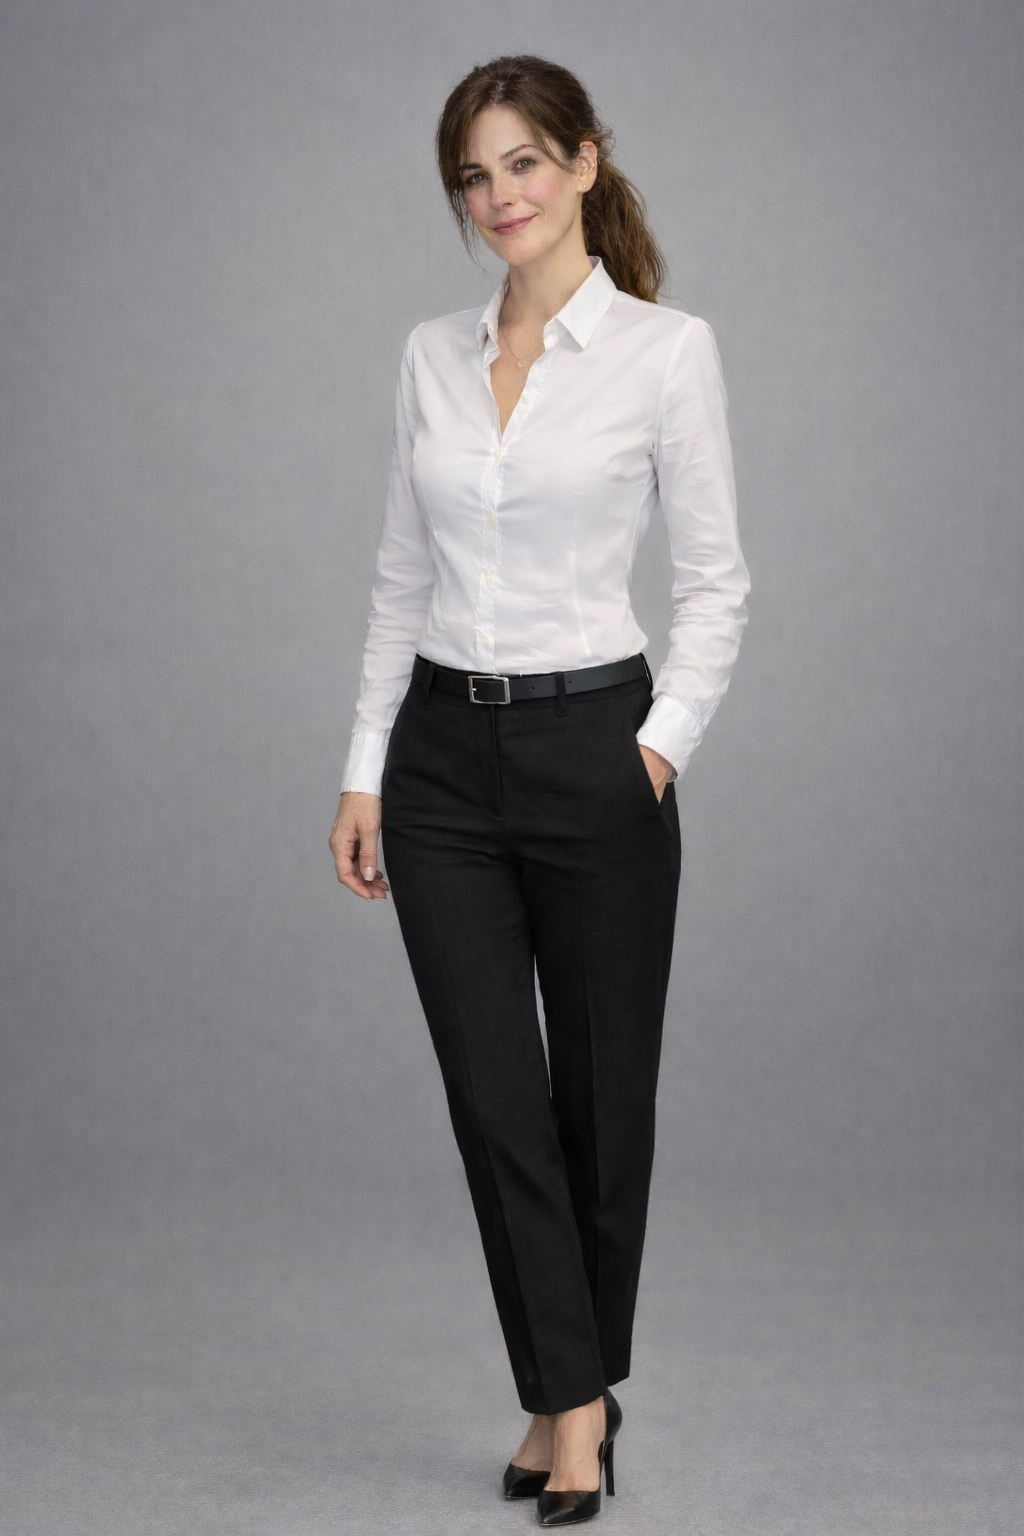
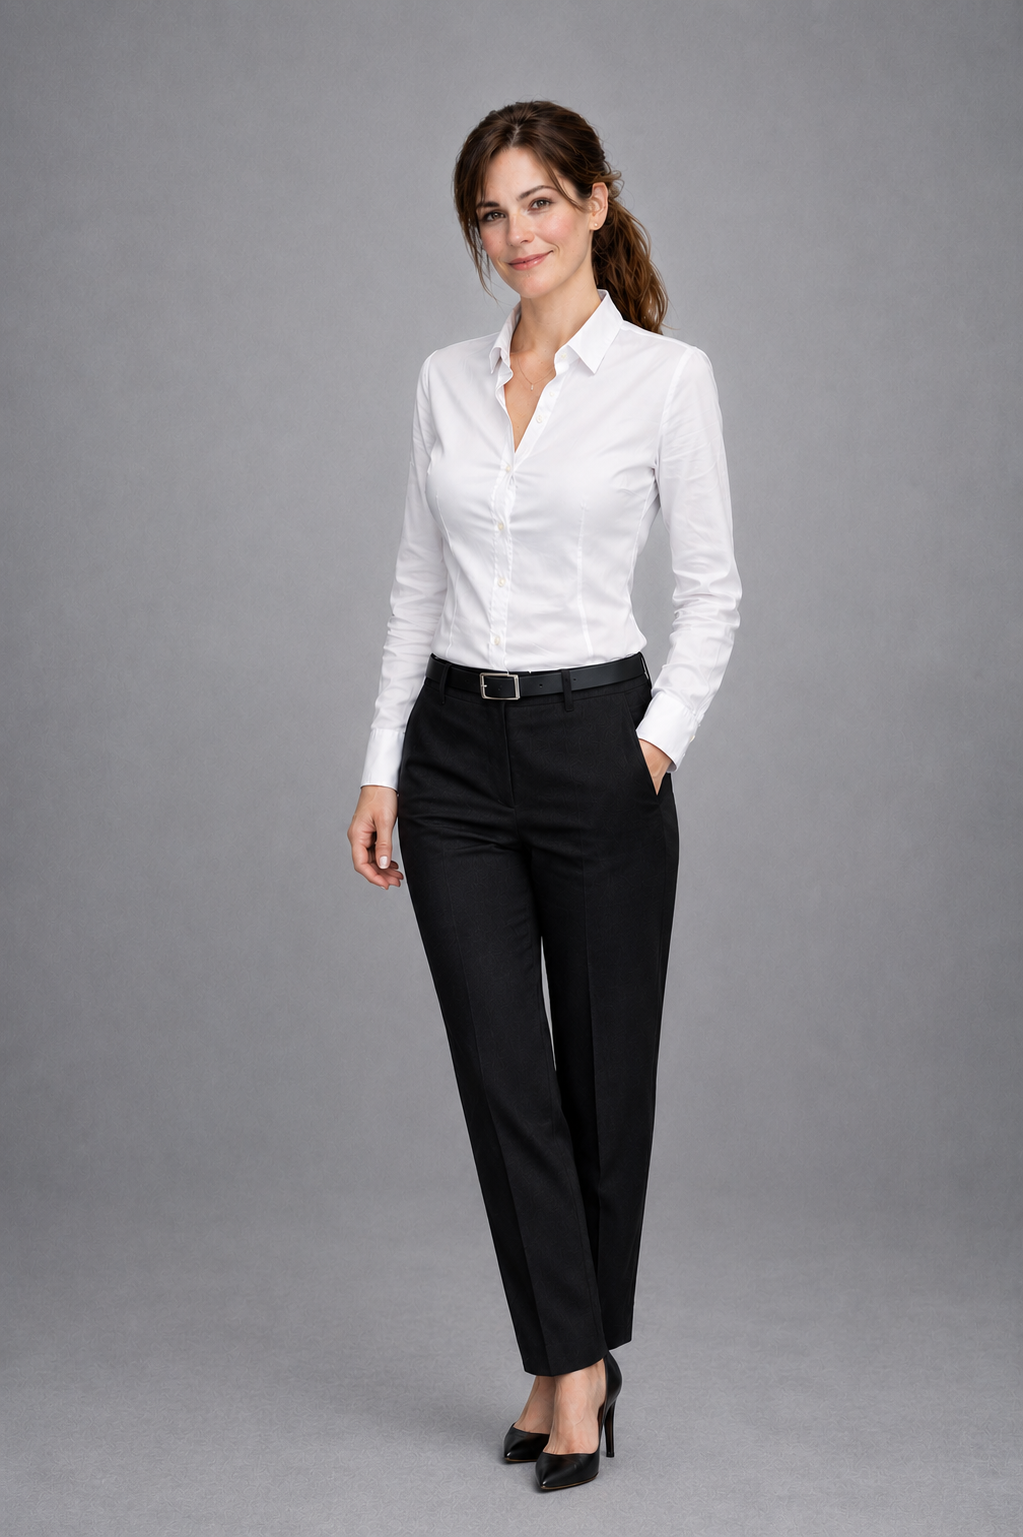
v1.45: harden history checkpoints and streamline container releases
History checkpoint robustness and coverage

- harden history checkpoint handling to keep web history state transitions stable and cover the behavior with tests

Container build and publishing flow

- generate the OpenAPI client during Docker builds so container images include current generated assets
- simplify the publish-container workflow around the main-branch release path

Packaged assets

- refresh the bundled Vika NPC image

Validation

- verify requirements.txt against requirements.in with pip-compile requirements.in and confirm no diff
- keep Python tests, TypeScript checks, and the production frontend build green for the release

diff --git a/engine/services/history_service.py b/engine/services/history_service.py
@@ -23,7 +23,6 @@ class HistoryService:
 
     def __init__(self) -> None:
         self._git_dir = storage.npc.base_runtime
-        self._ensure_git_repo()
 
     @staticmethod
     def _format_process_output(output: str | bytes | None) -> str:
@@ -37,39 +36,46 @@ class HistoryService:
     def _parse_git_datetime(value: str) -> datetime:
         return datetime.strptime(value, "%Y-%m-%d %H:%M:%S %z")
 
+    def _run_git(self, *args: str, text: bool = True) -> subprocess.CompletedProcess[str]:
+        try:
+            return subprocess.run(
+                ["git", *args],
+                cwd=str(self._git_dir),
+                check=True,
+                capture_output=True,
+                timeout=10,
+                text=text,
+            )
+        except subprocess.CalledProcessError as e:
+            stderr = self._format_process_output(e.stderr)
+            stdout = self._format_process_output(e.stdout)
+            combined_output = "\n".join(part for part in [stderr, stdout] if part)
+            raise ValueError(combined_output or str(e)) from e
+        except OSError as e:
+            raise ValueError(str(e)) from e
+
     def _ensure_git_repo(self) -> None:
         """Initialisiert das Git-Repository, falls nicht vorhanden."""
-        self._git_dir.mkdir(parents=True, exist_ok=True)
+        try:
+            self._git_dir.mkdir(parents=True, exist_ok=True)
+        except OSError as e:
+            raise ValueError(f"Checkpoint-Speicher ist nicht verfügbar: {e}") from e
 
         if (self._git_dir / ".git").exists():
             return
 
         try:
-            subprocess.run(
-                ["git", "init"],
-                cwd=str(self._git_dir),
-                check=True,
-                capture_output=True,
-                timeout=10,
-            )
+            self._run_git("init")
             logger.info(f"Git-Repository in {self._git_dir} initialisiert")
-        except subprocess.CalledProcessError as e:
-            error_detail = self._format_process_output(e.stderr)
-            raise ValueError(f"Git-Initialisierung fehlgeschlagen: {error_detail}") from e
+        except ValueError as e:
+            raise ValueError(f"Git-Initialisierung fehlgeschlagen: {e}") from e
 
     def _has_changes(self) -> bool:
         """Prüft, ob es uncommitted changes gibt."""
         try:
-            result = subprocess.run(
-                ["git", "status", "--porcelain"],
-                cwd=str(self._git_dir),
-                check=True,
-                capture_output=True,
-                timeout=10,
-                text=True,
-            )
+            result = self._run_git("status", "--porcelain")
             return bool(result.stdout.strip())
-        except subprocess.CalledProcessError:
+        except ValueError:
             return False
 
     def _generate_checkpoint_summary(self) -> str:
@@ -94,21 +100,8 @@ class HistoryService:
     def _git_add_and_commit(self, message: str) -> str:
         """Staged alle Änderungen und erstellt einen Commit."""
         try:
-            subprocess.run(
-                ["git", "add", "-A"],
-                cwd=str(self._git_dir),
-                check=True,
-                capture_output=True,
-                timeout=10,
-            )
-            result = subprocess.run(
-                ["git", "commit", "-m", message],
-                cwd=str(self._git_dir),
-                check=True,
-                capture_output=True,
-                timeout=10,
-                text=True,
-            )
+            self._run_git("add", "-A")
+            result = self._run_git("commit", "-m", message)
             output = result.stdout
             if "[" in output and "]" in output:
                 commit_info = output.split("[")[1].split("]")[0]
@@ -118,18 +111,16 @@ class HistoryService:
 
             logger.info(f"Checkpoint erstellt: {message} ({commit_hash})")
             return commit_hash
-        except subprocess.CalledProcessError as e:
-            stderr = self._format_process_output(e.stderr)
-            stdout = self._format_process_output(e.stdout)
-            combined_output = "\n".join(part for part in [stderr, stdout] if part)
-
-            if "nothing to commit" in combined_output.lower():
+        except ValueError as e:
+            if "nothing to commit" in str(e).lower():
                 raise ValueError("Keine Änderungen vorhanden, Checkpoint nicht erstellt") from e
 
-            raise ValueError(f"Commit fehlgeschlagen: {combined_output}") from e
+            raise ValueError(f"Commit fehlgeschlagen: {e}") from e
 
     def save_checkpoint(self, label: str | None = None) -> str:
         """Speichert einen Checkpoint für den aktiven Spielstand."""
+        self._ensure_git_repo()
+
         if not self._has_changes():
             raise ValueError("Keine Änderungen vorhanden, Checkpoint nicht erstellt")
 
@@ -139,16 +130,15 @@ class HistoryService:
     def list_checkpoints(self) -> list[Checkpoint]:
         """Listet alle verfügbaren Checkpoints auf."""
         try:
-            result = subprocess.run(
-                ["git", "log", "--pretty=format:%H%n%ai%n%s"],
-                cwd=str(self._git_dir),
-                check=True,
-                capture_output=True,
-                timeout=10,
-                text=True,
-            )
-        except subprocess.CalledProcessError as e:
-            logger.warning(f"Git-Log abfrage fehlgeschlagen: {e.stderr}")
+            self._ensure_git_repo()
+        except ValueError as e:
+            logger.warning(f"Checkpoint-Liste nicht verfügbar: {e}")
+            return []
+
+        try:
+            result = self._run_git("log", "--pretty=format:%H%n%ai%n%s")
+        except ValueError as e:
+            logger.warning(f"Git-Log abfrage fehlgeschlagen: {e}")
             return []
 
         if not result.stdout.strip():
@@ -173,6 +163,8 @@ class HistoryService:
 
     def restore_checkpoint(self, commit_hash: str) -> None:
         """Stellt einen älteren Spielstand wieder her."""
+        self._ensure_git_repo()
+
         if self._has_changes():
             logger.info("Änderungen vorhanden, erstelle Auto-Backup...")
             try:
@@ -181,29 +173,16 @@ class HistoryService:
                 logger.warning(f"Auto-Backup fehlgeschlagen: {e}")
 
         try:
-            result = subprocess.run(
-                ["git", "log", "-1", "--pretty=format:%ai%n%s", commit_hash],
-                cwd=str(self._git_dir),
-                check=True,
-                capture_output=True,
-                timeout=10,
-                text=True,
-            )
+            result = self._run_git("log", "-1", "--pretty=format:%ai%n%s", commit_hash)
             lines = result.stdout.strip().split("\n")
             commit_datetime = lines[0] if lines else ""
             commit_orig_message = lines[1] if len(lines) > 1 else ""
-        except subprocess.CalledProcessError:
+        except ValueError:
             commit_datetime = "unknown"
             commit_orig_message = "unknown"
 
         try:
-            subprocess.run(
-                ["git", "checkout", commit_hash, "--", "."],
-                cwd=str(self._git_dir),
-                check=True,
-                capture_output=True,
-                timeout=10,
-            )
+            self._run_git("checkout", commit_hash, "--", ".")
 
             if not self._has_changes():
                 logger.info(f"Checkout von {commit_hash} ohne Änderungen – kein Revert-Commit nötig")
@@ -211,6 +190,5 @@ class HistoryService:
 
             self._git_add_and_commit(f"[revert to] {commit_datetime} - {commit_orig_message}")
             logger.info(f"Checkpoint wiederhergestellt: {commit_hash}")
-        except subprocess.CalledProcessError as e:
-            error_detail = self._format_process_output(e.stderr)
-            raise ValueError(f"Checkpoint-Wiederherstellung fehlgeschlagen: {error_detail}") from e
+        except ValueError as e:
+            raise ValueError(f"Checkpoint-Wiederherstellung fehlgeschlagen: {e}") from e

diff --git a/tests/test_web_app.py b/tests/test_web_app.py
@@ -328,6 +328,23 @@ def test_api_responses_are_not_cached(tmp_path, monkeypatch):
     assert response.headers["expires"] == "0"
 
 
+def test_history_endpoint_returns_empty_list_when_git_init_fails(tmp_path, monkeypatch):
+    _setup_web_app(tmp_path, monkeypatch)
+
+    import engine.services.history_service as history_service_module
+
+    def fail_git_init(*args, **kwargs):
+        raise PermissionError("read-only volume")
+
+    monkeypatch.setattr(history_service_module.subprocess, "run", fail_git_init)
+
+    with TestClient(web_app_module.app) as client:
+        response = client.get("/api/session/history")
+
+    assert response.status_code == 200
+    assert response.json() == {"checkpoints": []}
+
+
 def test_get_state_returns_session_messages_options_and_image(tmp_path, monkeypatch):
     _setup_web_app(tmp_path, monkeypatch)
     (tmp_path / "npcs" / "vika" / "video.mp4").write_bytes(b"video")
